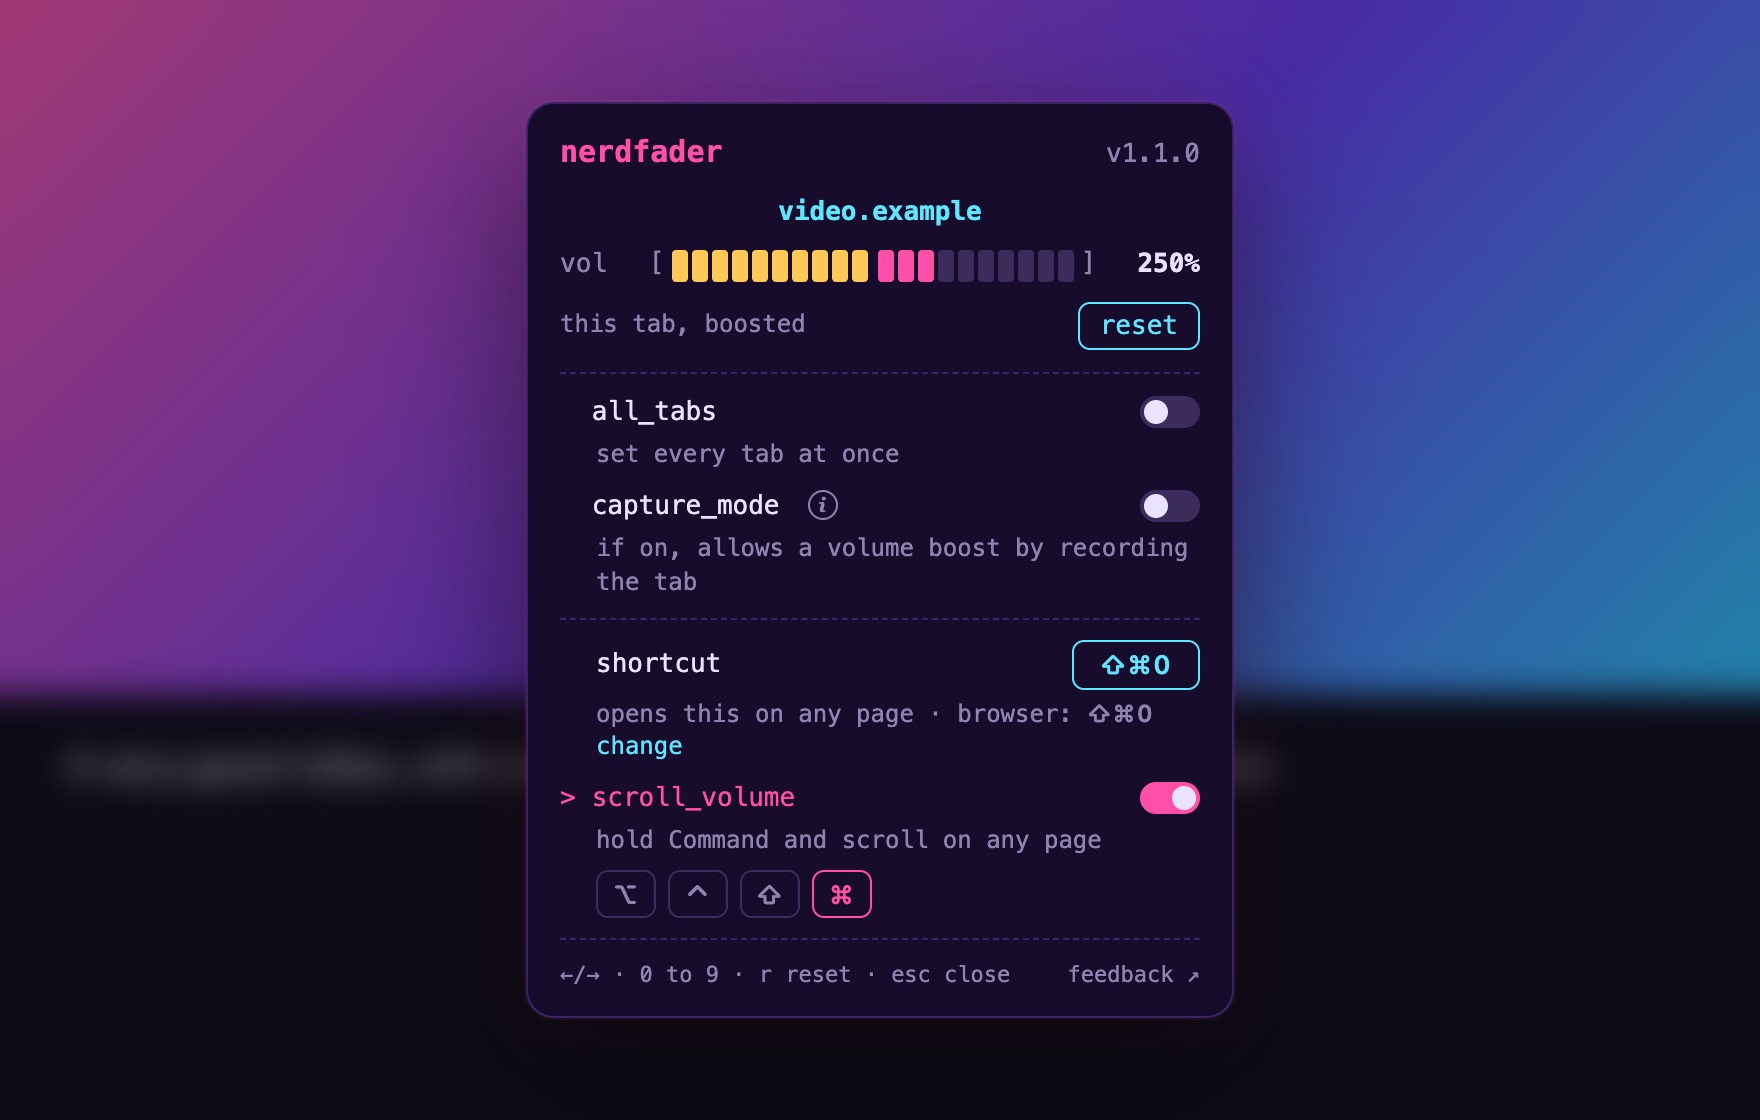
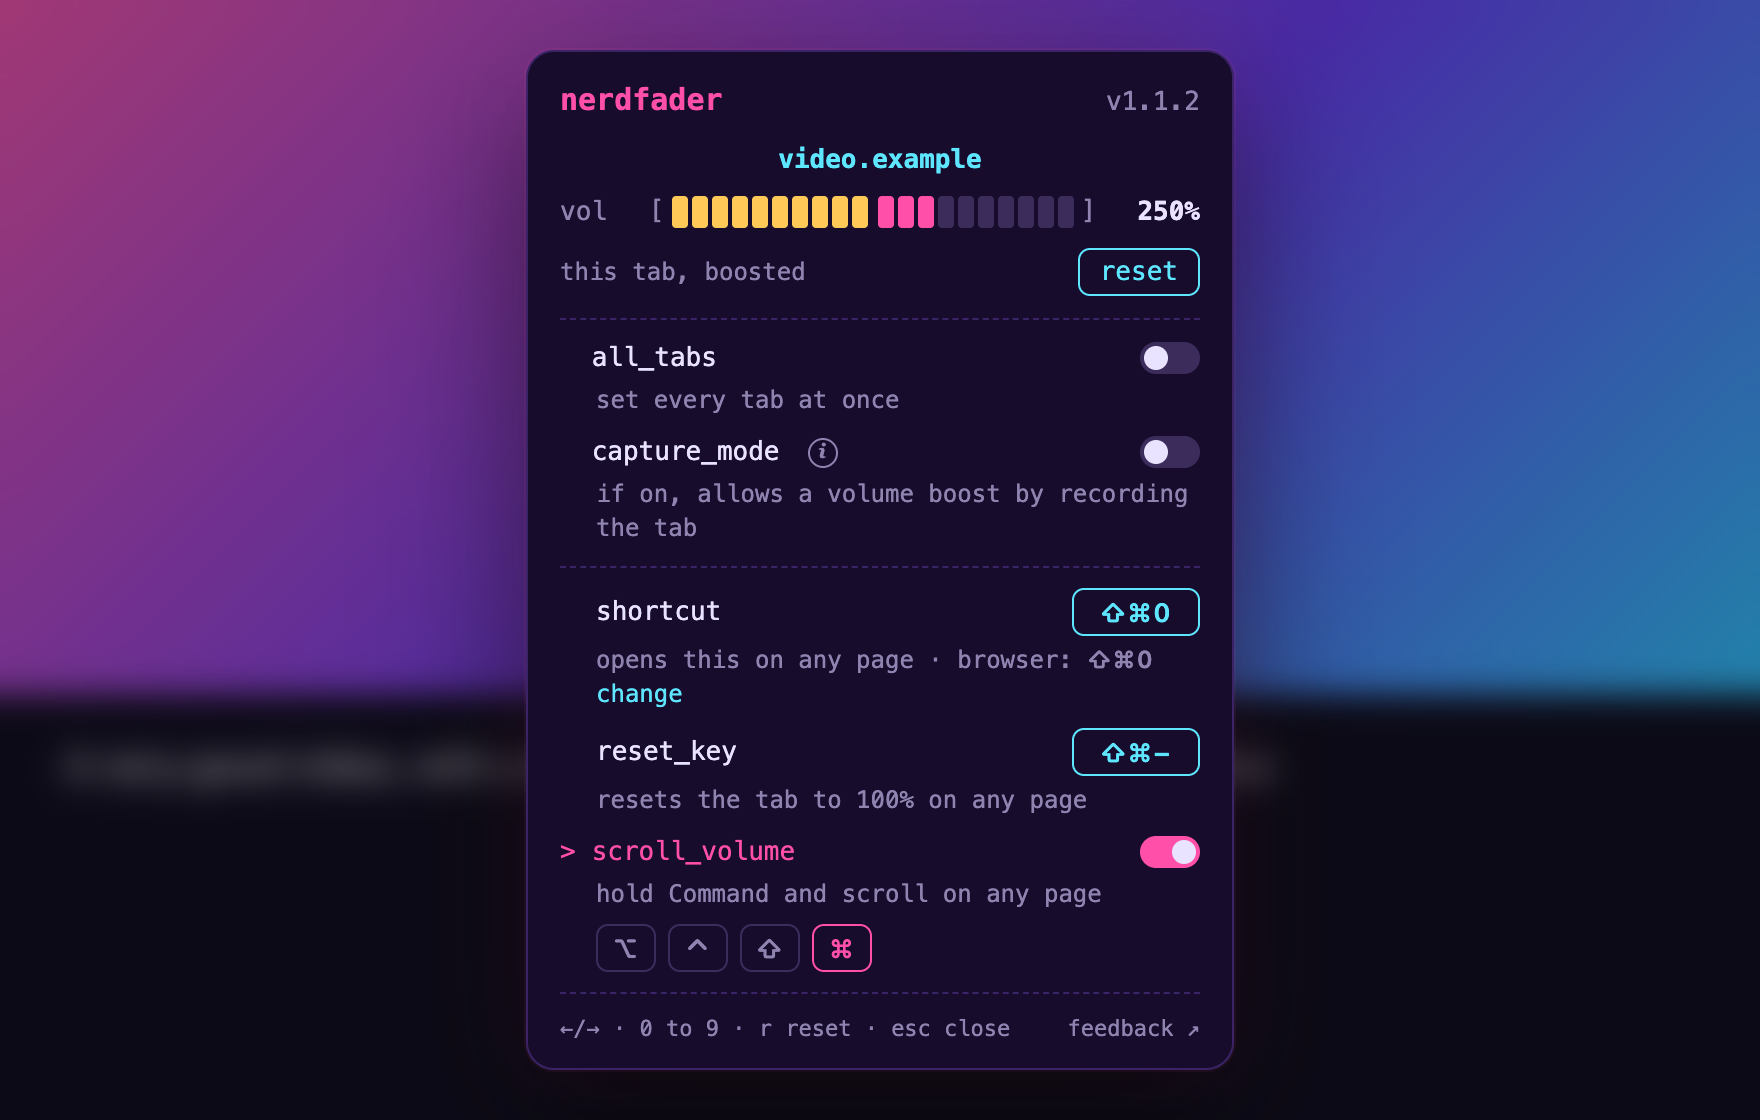
Add a reset shortcut: Command+Shift+Minus puts the tab back to 100%
Works on any page (and resets every tab while all_tabs is on), shows the dialog for a moment, and resets without
closing the dialog when it is open. Recordable in the dialog (reset_key). Browser-level shortcuts can't use -, so
the reset action is listed at the browser's shortcuts page without a default. The open shortcut stays
Command+Shift+0.

Changed region(s): [[0.2812, 0.0312, 0.7188, 0.875], [0.3125, 0.9062, 0.6875, 0.9688], [0.625, 0.8438, 0.6562, 0.875]]

diff --git a/extension/ui/panel.js b/extension/ui/panel.js
@@ -191,9 +191,14 @@ globalThis.NerdfaderPanel = (() => {
 <div class="rule"></div>
 <div class="setting">
   <span class="name">shortcut</span>
-  <button class="shortcutBtn" title="Click, then press the keys you want (Esc cancels, Delete removes it)"></button>
+  <button class="shortcutBtn" data-setting="shortcut" title="Click, then press the keys you want (Esc cancels, Delete removes it)"></button>
 </div>
 <div class="hint shortcutHint"></div>
+<div class="setting">
+  <span class="name">reset_key</span>
+  <button class="shortcutBtn resetBtn" data-setting="resetShortcut" title="Click, then press the keys you want (Esc cancels, Delete removes it)"></button>
+</div>
+<div class="hint resetHint"></div>
 <label class="toggle">
   <input type="checkbox" class="altScrollToggle">
   <span class="caret">&gt;</span>
@@ -210,12 +215,12 @@ globalThis.NerdfaderPanel = (() => {
   <a href="https://github.com/grumpitect/nerdfader/issues/new/choose" target="_blank" rel="noopener">feedback ↗</a>
 </footer>`;
 
-  // A shortcut as the platform writes it: ⌃⌥⇧⌘V on a Mac, Ctrl+Alt+Shift+V elsewhere.
+  // A shortcut as the platform writes it: ⌃⌥⇧⌘V on a Mac, Ctrl+Alt+Shift+V elsewhere. Shift + = shows as +.
   const mac = /Mac/.test(navigator.platform);
   function shortcutLabel(s) {
     if (!s) return "none";
     const names = { ArrowLeft: "←", ArrowRight: "→", ArrowUp: "↑", ArrowDown: "↓", Space: "Space", Backquote: "`",
-      Minus: "-", Equal: "=", BracketLeft: "[", BracketRight: "]", Backslash: "\\", Semicolon: ";", Quote: "'",
+      Minus: "−", Equal: s.shift ? "+" : "=", BracketLeft: "[", BracketRight: "]", Backslash: "\\", Semicolon: ";", Quote: "'",
       Comma: ",", Period: ".", Slash: "/", Escape: "Esc", Enter: "Return", Backspace: "Delete", Tab: "Tab" };
     const key = names[s.code] ?? s.code.replace(/^Key|^Digit|^Numpad/, "");
     if (mac) return (s.ctrl ? "⌃" : "") + (s.alt ? "⌥" : "") + (s.shift ? "⇧" : "") + (s.meta ? "⌘" : "") + key;
@@ -316,7 +321,7 @@ globalThis.NerdfaderPanel = (() => {
     }, 500);
 
     const current = () => (state.override.on ? state.override.percent : state.tab);
-    let recording = false;
+    let recording = null;   // which shortcut is being recorded: "shortcut", "resetShortcut", or none
     function saveSettings(change) {
       state.settings = { ...state.settings, ...change };
       render();
@@ -371,13 +376,17 @@ globalThis.NerdfaderPanel = (() => {
       $("alwaysToggle").checked = state.captureAlways;
       $("captureHint").textContent = "if on, allows a volume boost by recording the tab";
 
-      const settings = state.settings ?? { shortcut: null, altScroll: true, scrollKey: "meta" };
-      $("shortcutBtn").textContent = recording ? "press keys…" : shortcutLabel(settings.shortcut);
-      $("shortcutBtn").classList.toggle("kbd", !recording && !!settings.shortcut);
-      $("shortcutBtn").classList.toggle("recording", recording);
+      const settings = state.settings ?? { shortcut: null, resetShortcut: null, altScroll: true, scrollKey: "meta" };
+      for (const b of root.querySelectorAll(".shortcutBtn")) {
+        const which = b.dataset.setting, value = settings[which];
+        b.textContent = recording === which ? "press keys…" : shortcutLabel(value);
+        b.classList.toggle("kbd", recording !== which && !!value);
+        b.classList.toggle("recording", recording === which);
+      }
+      $("resetHint").textContent = recording === "resetShortcut" ? "Esc cancels, Delete removes it" : "resets the tab to 100% on any page";
       $("shortcutHint").innerHTML = "";
       $("shortcutHint").append(
-        recording ? "Esc cancels, Delete removes it" : "opens this on any page",
+        recording === "shortcut" ? "Esc cancels, Delete removes it" : "opens this on any page",
         ...(state.browserShortcut !== undefined
           ? [" · browser: ", Object.assign(document.createElement("span"), { textContent: state.browserShortcut || "none", className: state.browserShortcut ? "kbd" : "" }), " ",
              Object.assign(document.createElement("a"), { textContent: "change", className: "changeBrowser", tabIndex: -1 })]
@@ -421,7 +430,9 @@ globalThis.NerdfaderPanel = (() => {
       root.focus();
     });
 
-    $("shortcutBtn").addEventListener("click", () => { recording = !recording; render(); });
+    for (const b of root.querySelectorAll(".shortcutBtn")) {
+      b.addEventListener("click", () => { recording = recording === b.dataset.setting ? null : b.dataset.setting; render(); });
+    }
     $("shortcutHint").addEventListener("click", (e) => {
       if (e.target.classList.contains("changeBrowser")) call("openShortcuts");
     });
@@ -439,16 +450,17 @@ globalThis.NerdfaderPanel = (() => {
       root.focus();
     });
 
-    // While recording, the next key press with a non-modifier key becomes the shortcut.
+    // While recording, the next key press with a non-modifier key becomes that shortcut.
     function record(e) {
       e.preventDefault();
       e.stopPropagation();
       if (["Shift", "Control", "Alt", "Meta"].includes(e.key)) return;
       const plain = !e.altKey && !e.ctrlKey && !e.metaKey && !e.shiftKey;
-      recording = false;
+      const which = recording;
+      recording = null;
       if (e.key === "Escape" && plain) return render();
-      if ((e.key === "Backspace" || e.key === "Delete") && plain) return saveSettings({ shortcut: null });
-      saveSettings({ shortcut: { code: e.code, alt: e.altKey, ctrl: e.ctrlKey, meta: e.metaKey, shift: e.shiftKey } });
+      if ((e.key === "Backspace" || e.key === "Delete") && plain) return saveSettings({ [which]: null });
+      saveSettings({ [which]: { code: e.code, alt: e.altKey, ctrl: e.ctrlKey, meta: e.metaKey, shift: e.shiftKey } });
       root.focus();
     }
 
@@ -462,8 +474,14 @@ globalThis.NerdfaderPanel = (() => {
         return;
       }
       if (e.key === "Escape" && close) { e.preventDefault(); close(); return; }
+      const same = (s) => s && e.code === s.code && e.altKey === s.alt && e.ctrlKey === s.ctrl && e.metaKey === s.meta && e.shiftKey === s.shift;
+      if (same(state.settings?.resetShortcut) && editable()) {
+        e.preventDefault();
+        if (!e.repeat) setPercent(DEFAULT);
+        return;
+      }
       const s = state.settings?.shortcut;
-      if (close && s && e.code === s.code && e.altKey === s.alt && e.ctrlKey === s.ctrl && e.metaKey === s.meta && e.shiftKey === s.shift) {
+      if (close && same(s)) {
         // The shortcut that opened the dialog closes it too, but only a new press: while the keys are still held
         // from opening it, the system repeats them, and those repeats arrive here once the dialog has focus.
         e.preventDefault();

diff --git a/extension/background.js b/extension/background.js
@@ -24,18 +24,19 @@ const clamp = (p) => Math.round(Math.min(MAX, Math.max(0, Number(p) || 0)));
 const toPercent = (pos) => (pos <= 100 ? pos : 100 + (pos - 100) * 5);
 const toPos = (p) => (p <= 100 ? p : 100 + (p - 100) / 5);
 
-// The in-page shortcut (content/input.js), stored as the key's code and modifiers: Command + Shift + 0 on a Mac (no
-// clash with macOS, Chrome or Arc), Ctrl + Shift + 9 elsewhere (Windows often keeps Ctrl + Shift + 0 for switching
-// keyboard layouts), the same as the browser-level shortcut in manifest.json. Scrolling changes the volume
-// with Command (Windows key elsewhere) held by default. Only defaults: a choice the user made is kept.
+// The in-page shortcuts (content/input.js), stored as the key's code and modifiers. Command + Shift + 0 opens the
+// dialog (no clash with macOS, Chrome or Arc; Ctrl + Shift + 9 elsewhere, since Windows often keeps Ctrl + Shift + 0
+// for switching keyboard layouts), the same as the browser-level shortcut in manifest.json. Command + Shift + Minus
+// resets the tab to 100% (Ctrl off a Mac); browser-level shortcuts can't use -, so that one only has a page default.
+// Scrolling changes the volume with Command (Windows key elsewhere) held by default. Choices the user made are kept.
 async function settings() {
   const mac = (await chrome.runtime.getPlatformInfo()).os === "mac";
-  const defaultShortcut = { code: mac ? "Digit0" : "Digit9", shift: true, meta: mac, ctrl: !mac, alt: false };
-  const { shortcut = defaultShortcut, altScroll = true, scrollKey = "meta" } =
-    await chrome.storage.local.get(["shortcut", "altScroll", "scrollKey"]);
-  return { shortcut, altScroll, scrollKey };
+  const keys = (code) => ({ code, shift: true, meta: mac, ctrl: !mac, alt: false });
+  const { shortcut = keys(mac ? "Digit0" : "Digit9"), resetShortcut = keys("Minus"), altScroll = true, scrollKey = "meta" } =
+    await chrome.storage.local.get(["shortcut", "resetShortcut", "altScroll", "scrollKey"]);
+  return { shortcut, resetShortcut, altScroll, scrollKey };
 }
-// The browser-level shortcut as Chrome shows it (for example "⇧⌘0"), or "" when the user removed it.
+// The browser-level shortcut for opening Nerdfader as the browser shows it (for example "⇧⌘0"), or "" when none is set.
 async function browserShortcut() {
   const commands = await chrome.commands.getAll();
   return commands.find((c) => c.name === "_execute_action")?.shortcut ?? "";
@@ -224,6 +225,11 @@ const handlers = {
   async toggle(_msg, sender) {
     await openPanel(sender.tab, { source: "shortcut" });
   },
+  // The reset shortcut: back to 100% (every tab's volume, while all_tabs is on), with the dialog shown for a moment.
+  async resetTab(_msg, sender) {
+    await resetVolume(sender.tab);
+    return { percent: DEFAULT };
+  },
   // Quick scrolling sends several at once; each starts from where the previous one left the volume.
   nudge(msg, sender) {
     const tabId = sender.tab.id;
@@ -244,6 +250,7 @@ const handlers = {
   async setSettings(msg) {
     const change = {};
     if (msg.shortcut !== undefined) change.shortcut = msg.shortcut;
+    if (msg.resetShortcut !== undefined) change.resetShortcut = msg.resetShortcut;
     if (typeof msg.altScroll === "boolean") change.altScroll = msg.altScroll;
     if (["alt", "ctrl", "shift", "meta"].includes(msg.scrollKey)) change.scrollKey = msg.scrollKey;
     await chrome.storage.local.set(change);
@@ -274,7 +281,7 @@ chrome.runtime.onMessage.addListener((msg, sender, reply) => {
   if (msg?.target === "offscreen") return false;
   const handler = handlers[msg?.type];
   if (!handler) return false;
-  if (["hello", "status", "toggle", "nudge"].includes(msg.type) && !sender.tab) return false;
+  if (["hello", "status", "toggle", "nudge", "resetTab"].includes(msg.type) && !sender.tab) return false;
   if (msg.tabId === undefined && sender.tab) msg.tabId = sender.tab.id;   // the in-page dialog doesn't know its tab id
   handler(msg, sender).then(reply, (err) => reply({ error: String(err) }));
   return true;   // reply arrives asynchronously
@@ -320,6 +327,19 @@ async function openPanel(tab, { moment = false, source = "action" } = {}) {
   }
 }
 chrome.action.onClicked.addListener((tab) => openPanel(tab));
+
+async function resetVolume(tab) {
+  const info = await tabInfo(tab.id);
+  if (info.override.on) await handlers.setOverride({ tabId: tab.id, percent: DEFAULT });
+  else await handlers.setTab({ tabId: tab.id, percent: DEFAULT });
+  openPanel(tab, { moment: true });
+}
+// The browser-level "reset" shortcut, if the user gave it one in the browser's shortcuts page.
+chrome.commands.onCommand.addListener(async (command, tab) => {
+  if (command !== "reset-volume") return;
+  tab ??= (await chrome.tabs.query({ active: true, lastFocusedWindow: true }))[0];
+  if (tab) resetVolume(tab);
+});
 
 // A tab that went quiet in capture mode starts capturing again when it plays.
 chrome.tabs.onUpdated.addListener(async (tabId, change) => {

diff --git a/tests/extension.test.js b/tests/extension.test.js
@@ -901,3 +901,44 @@ test("pressing the scroll key during a plain scroll (or its coasting) doesn't ch
   await send({ type: "setTab", tabId, percent: 100 });
   await page.close();
 });
+
+test("Command+Shift+Minus resets the tab to 100%, on the page or in the dialog; the reset key can be recorded", async () => {
+  const { page, tabId } = await openTestPage();
+  const state = async () => (await send({ type: "state", tabId })).tab;
+  await send({ type: "setTab", tabId, percent: 250 });
+  await settle();
+  await page.keyboard.press("Meta+Shift+Minus");
+  assert.equal(await until(async () => (await state()) === 100, 2000), true, "reset from the page");
+  near((await real(tabId)).a, 0.8, "plays at 100%");
+  assert.equal(await until(() => dialogReady(page), 2000), true, "the dialog shows the 100% for a moment");
+  // In the open dialog: reset without closing it.
+  await page.keyboard.press("3");
+  assert.equal(await until(async () => (await state()) === 30, 2000), true);
+  await page.keyboard.press("Meta+Shift+Minus");
+  assert.equal(await until(async () => (await state()) === 100, 2000), true, "reset from the dialog");
+  assert.equal(await dialogOpen(page), true, "the dialog stays");
+  await page.keyboard.press("Escape");
+  await until(async () => !(await dialogOpen(page)), 1000);
+
+  // Record a different reset key in the panel (the popup shows the same panel without a shadow root).
+  const popup = await context.newPage();
+  await popup.addInitScript(([tabId, url]) => { chrome.tabs.query = async () => [{ id: tabId, url }]; }, [tabId, page.url()]);
+  await popup.goto(ext.url());
+  await popup.locator(".resetBtn", { hasText: "⇧⌘−" }).waitFor();
+  assert.equal(await popup.locator('.shortcutBtn[data-setting="shortcut"]').textContent(), "⇧⌘0");
+  await popup.click(".resetBtn");
+  await popup.keyboard.press("Control+Shift+KeyR");
+  await popup.locator(".resetBtn", { hasText: "⌃⇧R" }).waitFor();
+  assert.equal(await popup.locator('.shortcutBtn[data-setting="shortcut"]').textContent(), "⇧⌘0", "the open shortcut is untouched");
+  await popup.close();
+  await settle();
+  await page.bringToFront();
+  await send({ type: "setTab", tabId, percent: 200 });
+  await page.keyboard.press("Meta+Shift+Minus");
+  await wait(400);
+  assert.equal(await state(), 200, "the old reset key no longer resets");
+  await page.keyboard.press("Control+Shift+KeyR");
+  assert.equal(await until(async () => (await state()) === 100, 2000), true, "the recorded one does");
+  await send({ type: "setSettings", resetShortcut: { code: "Minus", alt: false, ctrl: false, meta: true, shift: true } });
+  await page.close();
+});

diff --git a/extension/content/input.js b/extension/content/input.js
@@ -1,15 +1,17 @@
-// Runs in the extension's isolated world in every frame: the shortcut that opens the dialog, and modifier + scroll
+// Runs in the extension's isolated world in every frame: the shortcuts that open the dialog and reset the volume,
+// and modifier + scroll
 // (Command by default), which changes the tab's volume and shows the dialog for a moment. While the dialog is up, any
 // scroll over it changes the volume too, handled here as well: one place counts every scroll, so a swipe that opens
 // the dialog keeps going without a hiccup.
-// Settings come from the background ({ shortcut, altScroll, scrollKey }) when the page loads and whenever they change.
+// Settings come from the background ({ shortcut, resetShortcut, altScroll, scrollKey }) when the page loads and
+// whenever they change.
 (() => {
   const connected = () => { try { return !!chrome.runtime?.id; } catch { return false; } };
   const previous = window.__nerdfaderInput;
   if (typeof previous === "function" && previous()) return;
   window.__nerdfaderInput = connected;
 
-  let settings = { shortcut: null, altScroll: true, scrollKey: "meta" };
+  let settings = { shortcut: null, resetShortcut: null, altScroll: true, scrollKey: "meta" };
   const ask = (msg) => (connected() ? chrome.runtime.sendMessage(msg) : Promise.reject(new Error("disconnected")));
   ask({ type: "getSettings" }).then((s) => s && !s.error && (settings = s), () => {});
   chrome.runtime.onMessage.addListener((msg) => { if (msg?.type === "settings") settings = msg.settings; });
@@ -20,14 +22,15 @@
 
   function onKey(e) {
     if (!connected()) return shutDown();
-    const s = settings.shortcut;
-    if (!matches(e, s) || e.repeat) return;
+    const action = matches(e, settings.shortcut) ? "toggle" : matches(e, settings.resetShortcut) ? "resetTab" : null;
+    if (!action || e.repeat) return;
+    const s = action === "toggle" ? settings.shortcut : settings.resetShortcut;
     // A shortcut without Ctrl, Alt or Cmd would get in the way of typing, so it doesn't fire in text fields.
     if (!s.alt && !s.ctrl && !s.meta && editable(e.composedPath()[0])) return;
     if (e.composedPath().some((n) => n.tagName === "NERDFADER-DIALOG")) return;   // the dialog handles its own keys
     e.preventDefault();
     e.stopImmediatePropagation();
-    ask({ type: "toggle" }).catch(() => {});
+    ask({ type: action }).catch(() => {});
   }
 
   // A trackpad pinch reaches pages as Control + scroll, so Control only counts while the Control key is really held.

diff --git a/README.md b/README.md
@@ -25,7 +25,9 @@ Made for the [Nerdative](https://www.youtube.com/@nerdative) channel on YouTube,
   without permission to process it) can't be boosted from inside the page. For those, Nerdfader offers capture
   mode: once for that tab, or always. It runs only while the tab plays sound: it stops a moment after the tab
   pauses or goes quiet, and starts again when it plays. The ⓘ next to capture_mode in the dialog explains it.
-- **Reset.** One click (or **r**) puts the tab back to 100%.
+- **Reset.** One click (or **r** in the dialog, or **⌘⇧−** on any page) puts the tab back to 100%; with all_tabs on,
+  it resets every tab. After ⌘⇧− the dialog shows the 100% for a moment. Record a different reset key in the dialog
+  (**reset_key**).
 - **Opens over the page.** The dialog sits in the page, centered over a blurred backdrop, and shows above fullscreen
   video too. Its name links here, its version to the release notes. Keys you type in it don't reach the page, so a
   video player won't also seek. On pages extensions can't touch (`arc://` and `chrome://` pages, the Web Store) the
@@ -34,10 +36,11 @@ Made for the [Nerdative](https://www.youtube.com/@nerdative) channel on YouTube,
   tab goes back to the volume it had before.
 - **Badge.** The toolbar icon shows the tab's volume when it isn't 100%.
 - **Shortcut.** **⌘⇧0** (Ctrl+Shift+9 on Windows and Linux, where Windows often keeps Ctrl+Shift+0 for switching
-  keyboard layouts) opens and closes the dialog. Record your own in the dialog (click the shortcut, press
-  the keys; Delete removes it): it works on any page and inside embedded players. The browser's
-  own shortcut also works from the address bar; change it at `arc://extensions/shortcuts` (the dialog links there).
-  If the browser already uses that key itself, it leaves the browser-level shortcut unassigned; pick another there.
+  keyboard layouts) opens and closes the dialog. Record your own in the dialog (click the shortcut, press the keys;
+  Delete removes it): it works on any page and inside embedded players. The browser-level shortcut (same default)
+  also works from the address bar; change it at `arc://extensions/shortcuts` (the dialog links there), where you can
+  also give the reset action a browser-level key. The browser only assigns the default on a fresh install, and it
+  doesn't allow + or − in browser-level shortcuts.
 - **Modifier + scroll.** Hold Command (the Windows key elsewhere) and scroll anywhere, with a mouse wheel or two
   fingers on a trackpad, to change the tab's volume: scrolling down turns it up (with macOS natural scrolling, that's
   a two-finger swipe up). The dialog shows for a moment and follows along while you keep scrolling; it goes away 2
